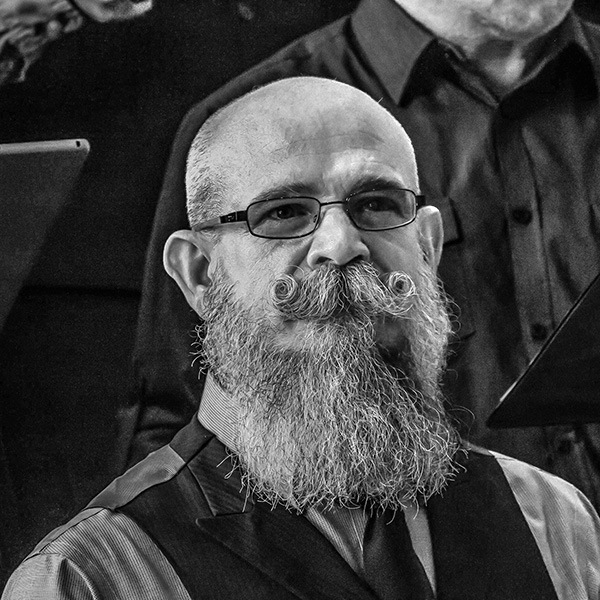
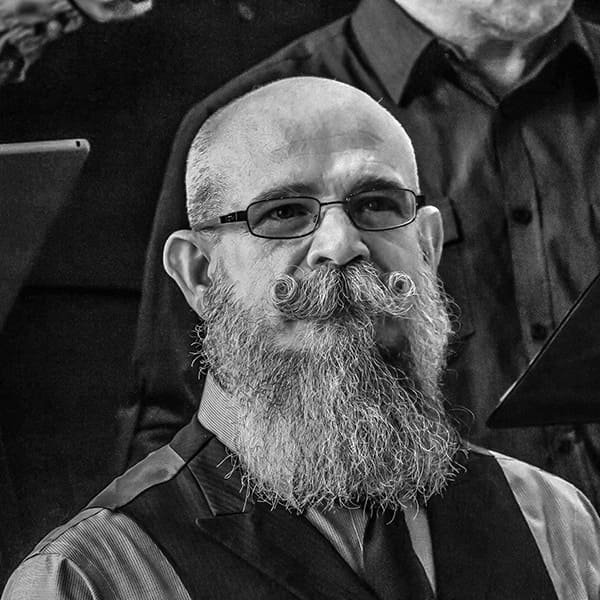
New images and css

Changed region(s): [[0.63, 0.48, 0.66, 0.51], [0.42, 0.81, 0.45, 0.84]]

diff --git a/index.html b/index.html
@@ -73,19 +73,10 @@
           <ol class="carousel-indicators">
             <li data-target="#carouselExampleCaptions" data-slide-to="0" class="active"></li>
             <li data-target="#carouselExampleCaptions" data-slide-to="1"></li>
-            <li data-target="#carouselExampleCaptions" data-slide-to="2"></li>
           </ol>
           <div class="carousel-inner">
 
-            <div class="carousel-item img-item-first active">
-              <div class="carousel-caption d-md-block">
-                <p class="text-uppercase text-p">help you to start business</p>
-                <h5 class="text-uppercase text-h">come to the king theme you will win</h5>
-                <a href="#" class="btn btn-custom text-uppercase rounded">contact us</a>
-              </div> <!-- .carousel-caption -->
-            </div> <!-- .carousel-item -->
-
-            <div class="carousel-item img-item-second">
+            <div class="carousel-item img-item-second active">
               <div class="carousel-caption d-md-block">
                 <p class="text-uppercase text-p">Help to get templates</p>
                 <h5 class="text-uppercase text-h">Best Business Templates</h5>
@@ -208,7 +199,7 @@
               <div class="team">
 
                 <div class="team-img position-relative">
-                  <img src="/images/people_1.jpg" alt="...." class="w-100">
+                  <img src="/images/people_1.png" alt="...." class="w-100">
                   <div class="link-img d-flex justify-content-center">
                     <div class="link-team align-self-center">
                       <a href="#" class="text-light display-4"><i class="fas fa-link"></i></a>
@@ -225,7 +216,7 @@
               <div class="team">
 
                 <div class="team-img position-relative">
-                  <img src="/images/people_3.jpg" alt="...." class="w-100">
+                  <img src="/images/people_3.png" alt="...." class="w-100">
                   <div class="link-img d-flex justify-content-center">
                     <div class="link-team align-self-center">
                       <a href="#" class="text-light display-4"><i class="fas fa-link"></i></a>

diff --git a/css/style.css b/css/style.css
@@ -74,16 +74,12 @@
     height: 850px;
 }
 
-.header .img-item-first {
-    background: linear-gradient(rgba(2, 3, 2, 0.55),rgba(0, 0, 0, 0.52)), url('/images/cover_1.jpg') center / cover;
-}
-
 .header .img-item-second {
     background: linear-gradient(rgba(2, 3, 2, 0.55),rgba(0, 0, 0, 0.52)), url('/images/bus.png') center / cover;
 }
 
 .header .img-item-third {
-    background: linear-gradient(rgba(2, 3, 2, 0.55),rgba(0, 0, 0, 0.52)), url('/images/camera.jpg') center / cover;
+    background: linear-gradient(rgba(2, 3, 2, 0.55),rgba(0, 0, 0, 0.52)), url('/images/camera.png') center / cover;
 }
 
 .header .text-p {
@@ -147,7 +143,7 @@
 .business .col-lg-6:nth-last-of-type(1) {
     padding: 0;
     height: 629px;
-    background: linear-gradient(rgba(0, 0, 0, 0.2), rgba(0, 0, 0, 0.2)), url('/images/camera.jpg') center / cover;
+    background: linear-gradient(rgba(0, 0, 0, 0.2), rgba(0, 0, 0, 0.2)), url('/images/camera.png') center / cover;
 }
 /* End Business */
 
